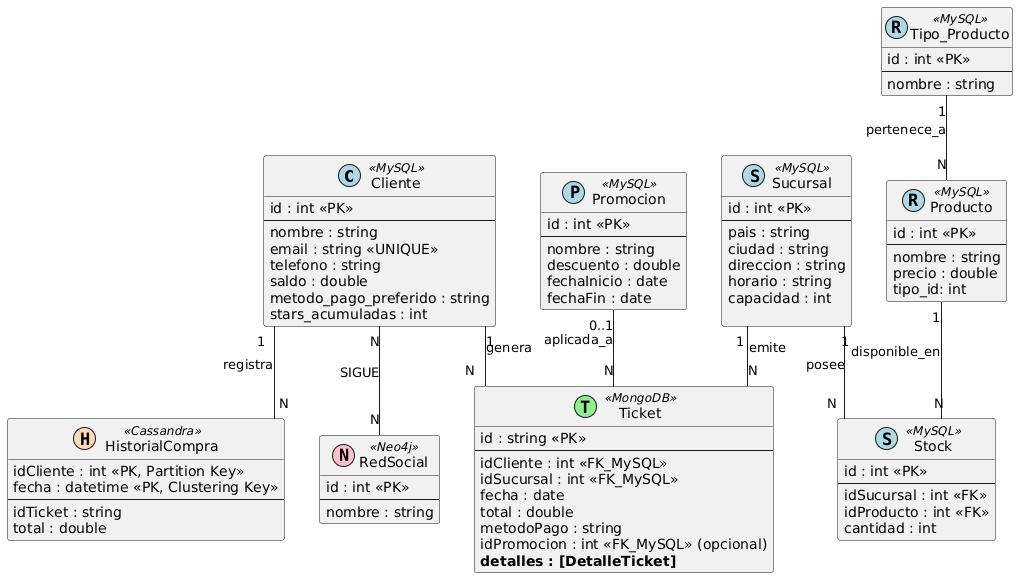
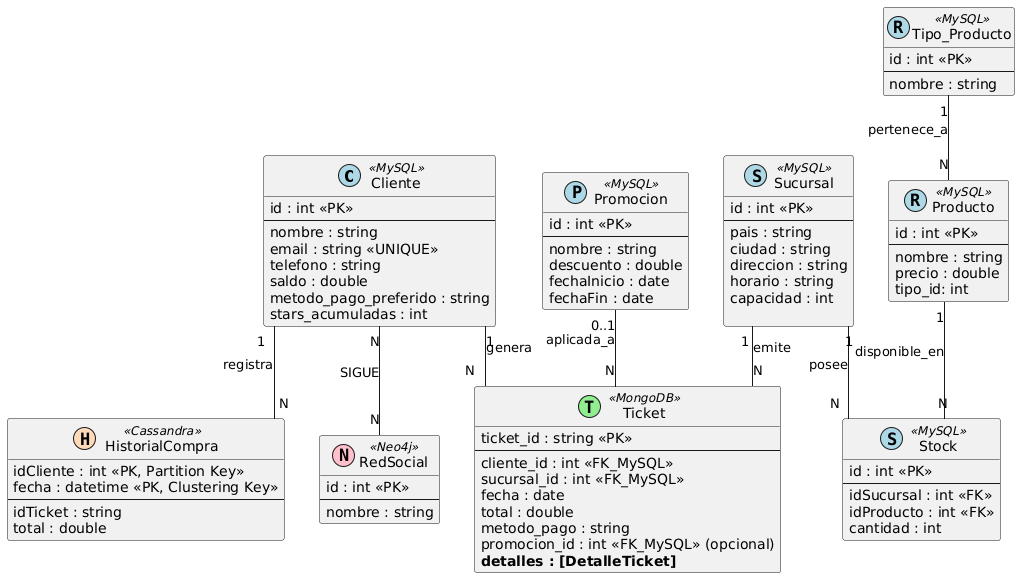
Changes to be committed: 	modified:   Ing de Datos 2/TP/DER.png 	modified:   Ing de Datos 2/TP/DER.puml 	modified:   Ing de Datos 2/TP/casos_de_uso.txt 	modified:   Ing de Datos 2/TP/queries/bebidas_precio_mas5.sql 	new file:   Ing de Datos 2/TP/queries/consulta_tickets_cliente.js 	new file:   Ing d

diff --git a/Ing de Datos 2/TP/queries/consulta_tickets_cliente.js b/Ing de Datos 2/TP/queries/consulta_tickets_cliente.js
@@ -1,0 +1,14 @@
+// Este script espera que la variable 'clienteId' sea inyectada
+// como un de numero, ej: clienteId = 1;
+
+db.ticket.aggregate([
+    {
+        $match: {
+            cliente_id: clienteId,
+            // cliente_id: 1,
+            $expr: {
+                $eq: [ { $month: "$fecha" }, 9 ] // Filtra donde el mes de 'fecha' sea 9 (Septiembre)
+            }
+        }
+    }
+]).forEach(printjson);

diff --git a/Ing de Datos 2/TP/queries/pedidos_cliente_septiembre.py b/Ing de Datos 2/TP/queries/pedidos_cliente_septiembre.py
@@ -1,0 +1,94 @@
+import subprocess
+import sys
+import json
+import re
+
+# --- CONFIGURACIÓN ---
+MONGO_QUERY_FILE = "/app/queries/consulta_tickets_cliente.js"
+MONGO_CONN = "mongosh mongodb://mongodb:27017/starbucks_transactions -u rootuser -p rootpassword --authenticationDatabase admin --quiet"
+
+def run_command(command, input_data=None):
+    """Ejecuta un comando de shell y devuelve la salida stdout o levanta un error."""
+    try:
+        result = subprocess.run(
+            command,
+            input=input_data,
+            capture_output=True,
+            text=True,
+            check=True,
+            shell=True
+        )
+        return result.stdout.strip()
+    except subprocess.CalledProcessError as e:
+        print(f"\n--- ERROR DE EJECUCIÓN DEL COMANDO ---", file=sys.stderr)
+        print(f"Comando: {e.cmd}", file=sys.stderr)
+        print(f"Stderr: {e.stderr.strip()}", file=sys.stderr)
+        sys.exit(1)
+    except FileNotFoundError:
+        print("ERROR: Comando no encontrado (mongosh).", file=sys.stderr)
+        sys.exit(1)
+
+def get_tickets_by_client_id(cliente_id):
+    """Ejecuta la consulta de MongoDB inyectando el clienteId."""
+    print(f"\n--- Consultando Tickets para Cliente ID: {cliente_id} (Septiembre) ---")
+    
+    # 1. Leer el script de consulta de MongoDB
+    try:
+        with open(MONGO_QUERY_FILE, 'r') as f:
+            mongo_script_content = f.read()
+    except FileNotFoundError:
+        print(f"ERROR: No se encontró el archivo de consulta: {MONGO_QUERY_FILE}", file=sys.stderr)
+        sys.exit(1)
+
+    # 2. Inyectar la variable de Python en el script JS
+    mongo_script_with_vars = f"var clienteId = {cliente_id};\n{mongo_script_content}"
+    
+    # 3. Ejecutar mongosh y capturar la salida
+    command = f'{MONGO_CONN}'
+    mongo_output = run_command(command, input_data=mongo_script_with_vars)
+
+    #debug
+    # print(mongo_output)
+    
+    # 4. Limpiar la salida y extraer solo los objetos JSON
+    # Expresión regular para eliminar el prompt y el ruido de terminal
+    clean_output = re.sub(r'starbucks_transactions>|\.{3}', '', mongo_output).strip()
+    
+    # Buscar todos los objetos de JavaScript (incluyendo los que están en múltiples líneas)
+    # y convertir las claves sin comillas a claves con comillas dobles para que json.loads funcione
+    js_objects = re.findall(r'\{[^{}]*\}', clean_output, re.DOTALL)
+    
+    tickets_encontrados = []
+    
+    for js_obj in js_objects:
+        try:
+            # Reemplazo de sintaxis JS (clave: valor) a JSON estricto ("clave": valor)
+            # Esto es un patrón común en el output de printjson
+            json_string = re.sub(r'(\w+):', r'"\1":', js_obj)
+            data = json.loads(json_string)
+            tickets_encontrados.append(data)
+        except json.JSONDecodeError as e:
+            # Ignorar si falla el parseo, ya que podría ser ruido que la regex no limpió
+            pass
+
+    # 5. Imprimir resultados
+    if tickets_encontrados:
+        print(f"\nSe encontraron {len(tickets_encontrados)} tickets en Septiembre para el cliente {cliente_id}:\n")
+        
+        # Imprimir la salida en un formato amigable
+        for i, ticket in enumerate(tickets_encontrados):
+            print(f"--- Ticket {i + 1}---")
+            print(f"{ticket}")
+            # Puedes añadir más detalles si es necesario
+    else:
+        print(f"\nNo se encontraron tickets para el cliente {cliente_id} en Septiembre.")
+
+
+if __name__ == '__main__':
+    # El script espera el clienteId como primer argumento de línea de comandos
+    print("Ingrese un Cliente ID.")
+    cliente_id = input()
+    if cliente_id:
+        get_tickets_by_client_id(cliente_id)
+    else:
+        print(f"Esperoba recibir un cliente_id, recibi: {cliente_id}")
